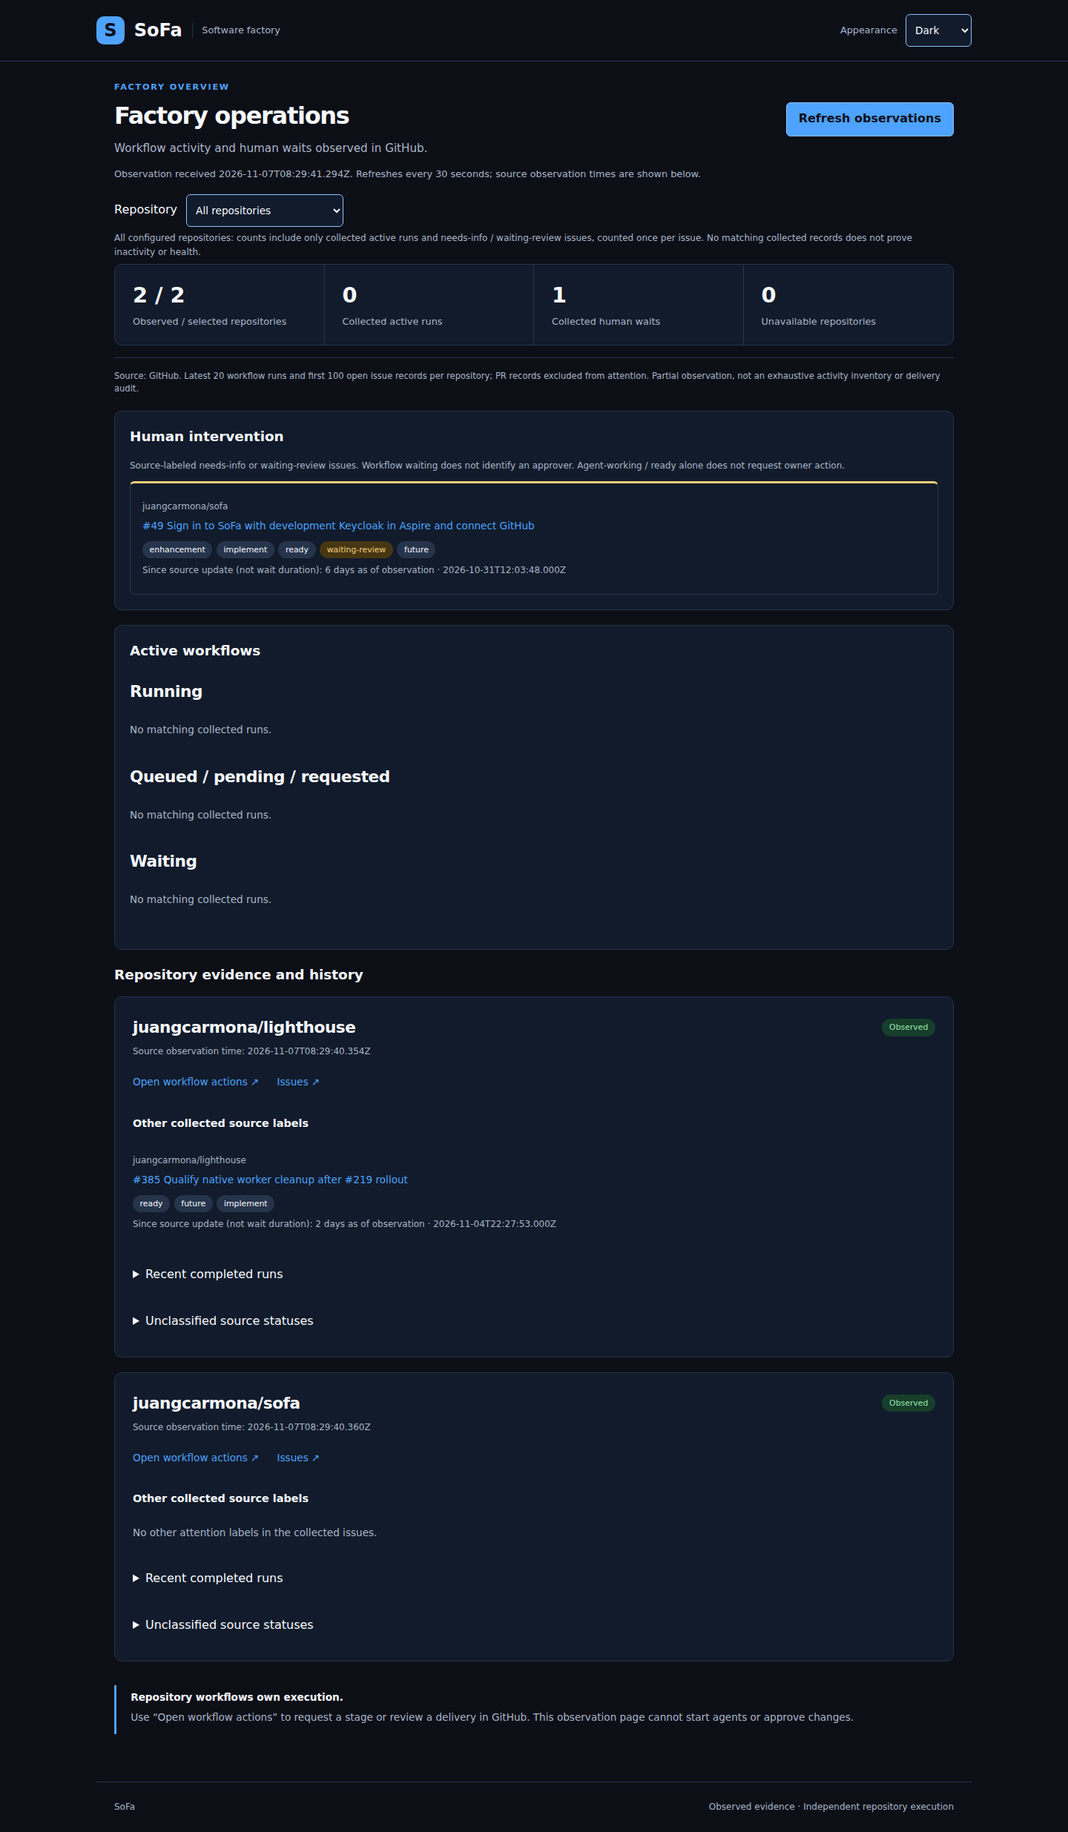
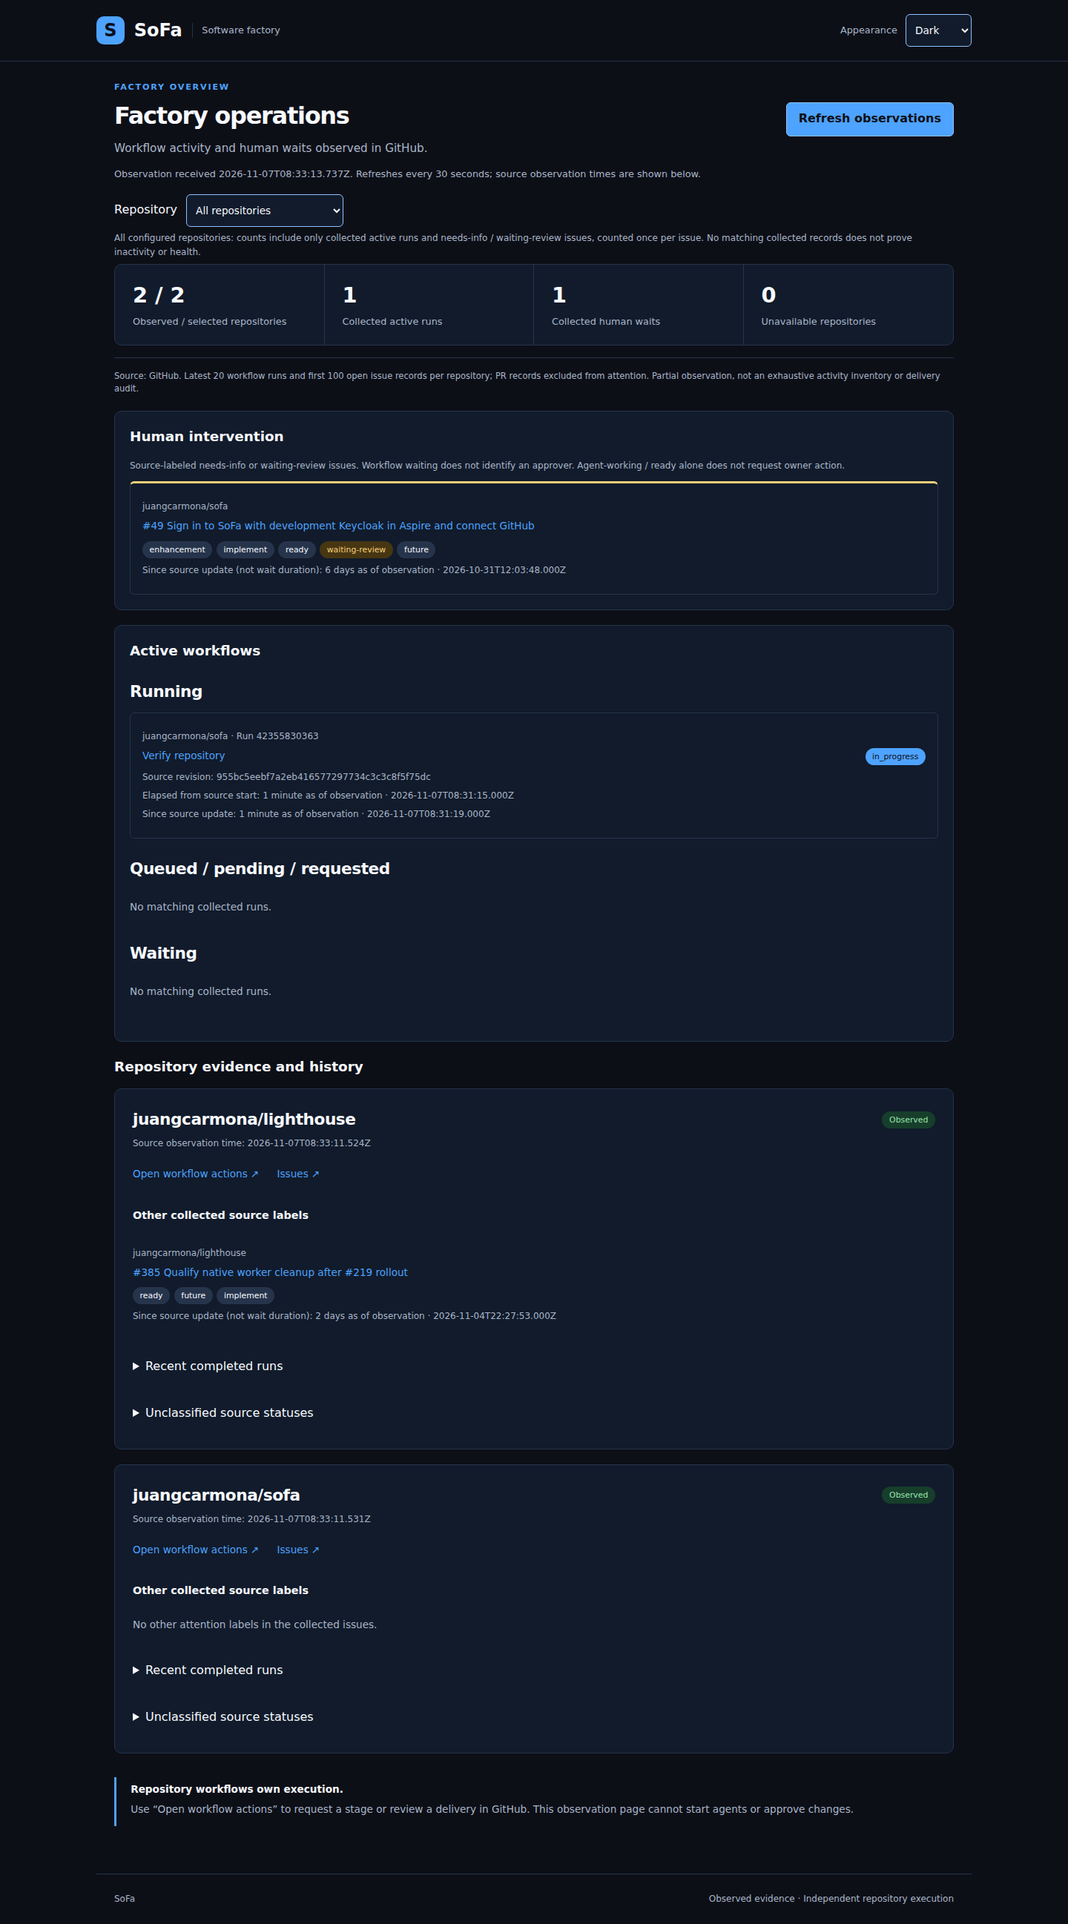
docs(90): integrate overview specification and retain delivery evidence

diff --git a/openspec/specs/factory-overview/spec.md b/openspec/specs/factory-overview/spec.md
@@ -1,0 +1,184 @@
+---
+pdac-scope: cited
+---
+
+# factory-overview Specification
+
+## Purpose
+
+Provide a bounded, read-only factory overview of collected workflow activity and source-labeled human waits, with stable identity and explicit evidence limits. This delivery specification consumes ProductShape intent and covers only issue #90's observer slice, not the complete authenticated workspace.
+<!-- pdac:cite id="JRN-DAILY-FACTORY-OPERATIONS" digest="sha256:a604012667b4b06339399a2f496380b24657fa3e71fc93d72d01187b2d4a272e" -->
+
+## Requirements
+
+### Requirement: Source-backed workflow overview
+
+The overview SHALL show every collected active run in the selected scope with source-backed card facts.
+<!-- pdac:cite id="FR-PROJECT-WORKSPACE" digest="sha256:9836a4ebc561438e2fb98dcd05fd97bd3e066720f368c620545975321e4f7462" -->
+<!-- pdac:cite id="BR-GITHUB-SOURCE" digest="sha256:fd8141424d5fead38ed55d54689511fc445467133706e875371cc3199af8ab1a" -->
+
+#### Scenario: Active states and completed history
+
+- **WHEN** collected runs include in_progress, queued, pending, requested, waiting and completed, with active records beyond the first eight
+- **THEN** every collected active run is visible with repository, stable source identity, title, exact source status, revision and safe source link or explicit unavailable values; running, queued/pending/requested and waiting are distinct groups
+- **THEN** completed runs remain inspectable separately and do not contribute to active counts
+
+#### Scenario: Unknown state is not invented activity
+
+- **WHEN** a source reports an unfamiliar status or omits a revision
+- **THEN** the status remains inspectable separately as unclassified, excluded from active counts, and the revision is unavailable, without inferring completion, runner failure, session activity or approval ownership
+
+### Requirement: Distinct source-labeled human waits
+
+The overview SHALL prominently show and count source-labeled human waits without inventing owner action.
+<!-- pdac:cite id="FR-INTERVENTION-INBOX" digest="sha256:b60e605685fc15157ca76a876d7ee88f154b664b4cec0ec5add860c2cdb161f8" -->
+<!-- pdac:cite id="BR-EXPLICIT-WORK-COMMANDS" digest="sha256:5d2f308b670bdf6e577d2205ebc246ec56505253d81d6a5a5efe0b92b55d735e" -->
+
+#### Scenario: Mixed source labels
+
+- **WHEN** issues have needs-info, waiting-review, both wait labels, or only ready/agent-working
+- **THEN** only the first three kinds appear as human waits, each repository/issue counts once, both wait reasons remain visible on one issue, and each wait shows repository, number, title, source reason/labels and safe source link or unavailable values
+- **THEN** ready/agent-working alone does not suggest owner action; a workflow waiting status alone neither adds a human-wait issue nor identifies an approver
+
+### Requirement: Observer issue compatibility
+
+Original collected issue facts SHALL remain available to existing observer clients.
+<!-- pdac:cite id="BR-GITHUB-SOURCE" digest="sha256:fd8141424d5fead38ed55d54689511fc445467133706e875371cc3199af8ab1a" -->
+
+#### Scenario: Human-wait projection preserves source facts
+
+- **WHEN** the overview distinguishes human waits from other collected attention items
+- **THEN** the existing observer response retains the original issue facts and source labels, including ready/agent-working; other attention items remain inspectable without invented urgency
+
+### Requirement: Source timing remains explainable
+
+The overview SHALL show valid source times and ages as of observation; unavailable times SHALL stay unavailable.
+<!-- pdac:cite id="BR-EXPLAINABLE-SIGNALS" digest="sha256:1b8ec288714357b03b030a921f70b7f1dd0e82a590d05430cc8b4bf638c933a9" -->
+<!-- pdac:cite id="FR-RUNTIME-HEALTH" digest="sha256:3566c2bc7919a04b15a3e0e89d2cc2947a9ba38962673d6eb67f7d4addb6dce2" -->
+
+#### Scenario: Available and unavailable timestamps
+
+- **WHEN** records mix valid start/update timestamps with omitted, null, invalid or future-relative values
+- **THEN** valid source timing has understandable ages and inspectable absolute timestamps with repository observation time; missing, invalid or inconsistent timing is unavailable, never epoch dates or zero ages
+
+#### Scenario: Elapsed time requires a source start
+
+- **WHEN** an in-progress run supplies a valid start time and observation time
+- **THEN** its elapsed time is measured between those timestamps and labeled as of observation; missing starts are not inferred from updates, queue time is not execution duration and completed history does not imply a completion duration
+
+### Requirement: Issue age is source-update age
+
+Human-wait issue age SHALL describe time since source update, not duration of the wait.
+<!-- pdac:cite id="FR-INTERVENTION-INBOX" digest="sha256:b60e605685fc15157ca76a876d7ee88f154b664b4cec0ec5add860c2cdb161f8" -->
+<!-- pdac:cite id="BR-EXPLAINABLE-SIGNALS" digest="sha256:1b8ec288714357b03b030a921f70b7f1dd0e82a590d05430cc8b4bf638c933a9" -->
+
+#### Scenario: Updated issue with a human-wait label
+
+- **WHEN** a collected needs-info or waiting-review issue has a valid updated timestamp
+- **THEN** its age is labeled since source update as of observation, without asserting when the human wait began; missing or invalid timestamps remain unavailable
+
+### Requirement: Scoped filtering
+
+The overview SHALL filter configured repositories and retain selection across refresh, with explicit count scope.
+<!-- pdac:cite id="FR-FACTORY-DISCOVERY" digest="sha256:18b4ae82857bb3098cb0b39f7cdfce4e0e9f308f23907f66d876b8c572b12bbf" -->
+
+#### Scenario: Filter survives successful and failed refresh
+
+- **WHEN** a configured repository is selected and observations refresh or the refresh fails
+- **THEN** selection persists, all sections/counts explain and retain that scope, and an unavailable repository remains selectable alongside All repositories and every configured repository
+
+### Requirement: Stable keyboard navigation
+
+Source identity SHALL survive redraw and state changes; focus SHALL remain reachable without unrelated focus theft.
+<!-- pdac:cite id="QR-MOBILE-OPERATIONS" digest="sha256:2485b5877f0872af3dbdaa0a7ac00ac7651b28173adf6e3cf8d9ed643029bb35" -->
+
+#### Scenario: Focus survives identity changes in presentation
+
+- **WHEN** a focused run or issue changes title, ordering, safe href or active/history group on refresh
+- **THEN** focus follows the same repository/source identity rather than another identically named card, with its source control still reachable
+
+#### Scenario: Focused card disappears
+
+- **WHEN** refresh removes the focused source control or makes its link unsafe
+- **THEN** focus moves to a safe persistent repository action or overview control, not a removed element or disabled button
+
+#### Scenario: Refresh preserves unrelated control focus
+
+- **WHEN** focus is on a persistent filter, refresh button or another control outside the results
+- **THEN** refreshing results does not steal that focus
+
+### Requirement: Evidence limits remain visible
+
+The overview SHALL expose bounded collection, selected coverage and distinct known counts versus unavailable evidence.
+<!-- pdac:cite id="BR-EXPLAINABLE-SIGNALS" digest="sha256:1b8ec288714357b03b030a921f70b7f1dd0e82a590d05430cc8b4bf638c933a9" -->
+<!-- pdac:cite id="FR-FACTORY-DISCOVERY" digest="sha256:18b4ae82857bb3098cb0b39f7cdfce4e0e9f308f23907f66d876b8c572b12bbf" -->
+
+#### Scenario: Partial and unavailable repositories
+
+- **WHEN** one configured repository is available with bounded results and another read fails
+- **THEN** the view states repository observation times, latest-20-workflow-run and first-100-open-issue-record bounds, selected coverage, collected active-run counts, human-wait-issue counts and unavailable repositories
+- **THEN** available results contribute only known collected counts; the failed read remains unknown and counts explain the unknown remainder, never exhaustive factory activity
+
+### Requirement: Missing evidence is not inactivity
+
+Missing source evidence SHALL NOT imply zero activity or health.
+<!-- pdac:cite id="FR-RUNTIME-HEALTH" digest="sha256:3566c2bc7919a04b15a3e0e89d2cc2947a9ba38962673d6eb67f7d4addb6dce2" -->
+<!-- pdac:cite id="BR-EXPLAINABLE-SIGNALS" digest="sha256:1b8ec288714357b03b030a921f70b7f1dd0e82a590d05430cc8b4bf638c933a9" -->
+
+#### Scenario: All unavailable versus collected empty
+
+- **WHEN** all selected repositories are unavailable, or a successful bounded collection contains no matching records
+- **THEN** unavailable totals remain unknown while successful empty results say no matching collected records, neither claiming an idle or healthy factory
+
+### Requirement: Failed refresh retains stale evidence
+
+Failed refresh SHALL retain the previous valid view and observation times with a stale warning.
+<!-- pdac:cite id="BR-EXPLAINABLE-SIGNALS" digest="sha256:1b8ec288714357b03b030a921f70b7f1dd0e82a590d05430cc8b4bf638c933a9" -->
+
+#### Scenario: Failed refresh and initial failure
+
+- **WHEN** fetch or JSON refresh fails after a valid view, or before any valid observation
+- **THEN** the previous view, selection and observation times are retained and labeled stale in the first case, and no observation is available in the second; neither failure fabricates empty evidence or makes old timing newly observed
+
+### Requirement: Safe source inspection
+
+Source text SHALL remain inert; navigable source links SHALL be repository-bound HTTPS GitHub links.
+<!-- pdac:cite id="BR-GITHUB-SOURCE" digest="sha256:fd8141424d5fead38ed55d54689511fc445467133706e875371cc3199af8ab1a" -->
+<!-- pdac:cite id="BR-LAN-PRIVILEGE-BOUNDARY" digest="sha256:318c7d8d4d3b2e27109e24628f99dd1825494fa9858dc13410032d73650f1cc8" -->
+
+#### Scenario: Hostile text and unsafe links
+
+- **WHEN** records contain markup-like titles, unsafe schemes or links outside their repository
+- **THEN** text remains inert and unsafe links are not navigable while valid source links remain inspectable
+
+### Requirement: Accessible native overview
+
+The overview SHALL preserve keyboard access, visible focus, native Lighthouse themes and usable 390px layout.
+<!-- pdac:cite id="QR-MOBILE-OPERATIONS" digest="sha256:2485b5877f0872af3dbdaa0a7ac00ac7651b28173adf6e3cf8d9ed643029bb35" -->
+
+#### Scenario: Phone and keyboard inspection
+
+- **WHEN** the owner uses filter, refresh, history and source controls by keyboard at desktop and 390px sizes in light and dark themes
+- **THEN** controls remain accessible with visible focus and long names, labels and revisions do not cause horizontal overflow
+
+### Requirement: Observation remains independent
+
+Repository execution SHALL remain independent of SoFa; observation SHALL NOT become execution authority.
+<!-- pdac:cite id="CON-FACTORY-RUNTIME" digest="sha256:3e183bdd765a663d966e19e3c645ee91e36c8e30b14dacc9f4724c670fd21a2d" -->
+<!-- pdac:cite id="FR-RUNTIME-HEALTH" digest="sha256:3566c2bc7919a04b15a3e0e89d2cc2947a9ba38962673d6eb67f7d4addb6dce2" -->
+
+#### Scenario: Observation does not own execution
+
+- **WHEN** the owner inspects workflow or issue evidence
+- **THEN** repository workflows and their independent runtime retain execution authority, without embedded agents, new scheduling or dependence on SoFa availability
+
+### Requirement: Observation remains read-only
+
+Observation SHALL preserve the configured allowlist, bounded shared cache and read-only server boundary.
+<!-- pdac:cite id="BR-LAN-PRIVILEGE-BOUNDARY" digest="sha256:318c7d8d4d3b2e27109e24628f99dd1825494fa9858dc13410032d73650f1cc8" -->
+
+#### Scenario: Refresh cannot dispatch work
+
+- **WHEN** a client refreshes or filters observations, requests an unconfigured repository or attempts a mutating HTTP method
+- **THEN** refresh/filter remain read-only over configured cached evidence, unconfigured access is not added and mutating methods are rejected
+- **THEN** source inspection and navigation introduce no mutation API, credential or authentication change and request no work

diff --git a/openspec/changes/archive/2026-11-07-issue-90-proposal/tasks.md b/openspec/changes/archive/2026-11-07-issue-90-proposal/tasks.md
@@ -33,18 +33,20 @@ pdac-scope: cited
 - [x] 2.6 Reconcile the delivered behavior with proposal/design/spec and refresh affected citations using provider inspect/cite where dependencies changed; verify each current Markdown artifact has exactly one cited scope declaration and current payloads through the unchanged product:citations step. Stop for product drift rather than changing the accepted model (AC7).
 <!-- pdac:cite id="BR-GITHUB-SOURCE" digest="sha256:fd8141424d5fead38ed55d54689511fc445467133706e875371cc3199af8ab1a" -->
 
-## 3. Integration evidence
+## 3. Implementation verification
 
-- [ ] 3.1 Run `npm ci --ignore-scripts`, `env CI=true npm run verify:container` and `npx --yes --package=@fission-ai/openspec@1.15.0 openspec validate issue-90-proposal --strict --no-interactive` without narrowing the inventory. Retain source-bound exit results and artifacts; verify frozen tests/web.test.mjs still proves allowlist/cache/method/host/cross-site/CSP/error boundaries and only admitted files plus this planning root changed (AC6, AC7).
+- [x] 3.1 Run `npm ci --ignore-scripts`, `env CI=true npm run verify:container` and `npx --yes --package=@fission-ai/openspec@1.15.0 openspec validate issue-90-proposal --strict --no-interactive` without narrowing the inventory. Retain source-bound exit results and artifacts; verify frozen tests/web.test.mjs still proves allowlist/cache/method/host/cross-site/CSP/error boundaries and application/test edits remain in the admitted paths. Trusted operator integration separately owns evidence publication and provider fold/archive; the native policy remains unchanged (AC6, AC7).
 <!-- pdac:cite id="CON-FACTORY-RUNTIME" digest="sha256:3e183bdd765a663d966e19e3c645ee91e36c8e30b14dacc9f4724c670fd21a2d" -->
-- [ ] 3.2 Perform supplementary agent inspection of desktop/mobile light/dark artifacts and the live read-only view; record tested interactions, source observation times, collection limits and any unavailable evidence separately from fixture screenshots and trusted receipts. Verify AC1–AC8 mapping and record all remaining limitations without inferring live health from fixtures.
+- [x] 3.2 Perform supplementary agent inspection of desktop/mobile light/dark artifacts and the live read-only view; record tested interactions, source observation times, collection limits and any unavailable evidence separately from fixture screenshots and trusted receipts. Verify AC1–AC8 mapping and record all remaining limitations without inferring live health from fixtures.
 <!-- pdac:cite id="BR-EXPLAINABLE-SIGNALS" digest="sha256:1b8ec288714357b03b030a921f70b7f1dd0e82a590d05430cc8b4bf638c933a9" -->
-- [ ] 3.3 Obtain distinct independent candidate review after accepted planning review and the full required hosted `verify` on the actual integration candidate, including host .NET/Docker EngineTests and retained browser artifacts. Verify effective forge requirements, source/head bindings and all lifecycle DoD dimensions before integration; report any required failed/unavailable check or protected decision as a concrete blocker (AC7).
 
 ## Workflow follow-up
 
+- Original task 3.3 is a mandatory host integration gate, recorded here rather than as an implementation checkbox: Obtain distinct independent candidate review after accepted planning review and the full required hosted `verify` on the actual integration candidate, including host .NET/Docker EngineTests and retained browser artifacts. Verify effective forge requirements, source/head bindings and all lifecycle DoD dimensions before integration; report any required failed/unavailable check or protected decision as a concrete blocker (AC7). Initial candidate review accepted `955bc5eebf7a2eb416577297734c3c3c8f5f75dc` with no findings and all eleven DoD dimensions assessed; hosted verification of that head passed. The final post-fold/archive head still requires fresh hosted verification and independent final-head audit before merge. These gates are not waived or claimed complete in this archive.
+- The fresh operator snapshot at that head passed all three declared commands; full host and hosted checks passed 34 Node, 38 .NET and 12 browser tests. Operator receipts and the candidate review are retained under `docs/delivery/evidence/issue-90/`.
+
 - Native run [42351913300](https://github.com/juangcarmona/sofa/actions/runs/42351913300) accepted the corrected proposal with independent planning review. Its implementation author declared a blocked result after an executable-cache restriction and absence of GitHub tooling in the editing container. The separate trusted verification subsequently ran all three declared commands successfully, with source integrity and service cleanup confirmed. The controller retained the blocked author result and published no implementation PR; native end-to-end qualification remains open in #88.
 - The owner explicitly authorized completing and merging the necessary PRs. This branch continues in the trusted operator lane, preserves the native result, and adds compact cards and a closed-history focus regression test. It changes no execution authority, verification policy, accepted product model or architecture.
-- Twelve browser tests now pass in both themes, including source bounds, human waits, timing, unavailable/stale evidence, safe links, mobile layout and focus restoration. Real GitHub inspection at 2026-11-07T08:29:45Z successfully observed both configured repositories and checked desktop/mobile in both themes, zero Axe violations, no overflow, filter preservation on refresh and POST rejection. See `docs/delivery/evidence/issue-90/runtime.json`.
-- Fresh source-bound container checks, the complete host suite including Docker EngineTests, independent candidate review and the effective forge checks remain required before integration. No failed check or human product decision is waived. Broad #51/#52/#57 and the existing holds remain open; this delivery does not establish authenticated operations, session monitoring, production readiness, release or deployment.
+- Twelve browser tests now pass in both themes, including source bounds, human waits, timing, unavailable/stale evidence, safe links, mobile layout and focus restoration. Real GitHub inspection at 2026-11-07T08:33:17Z successfully observed both configured repositories and checked desktop/mobile in both themes, zero Axe violations, no overflow, filter preservation on refresh and POST rejection. See `docs/delivery/evidence/issue-90/runtime.json`.
+- The original candidate has passed source-bound container checks, the complete host suite including Docker EngineTests, hosted verify and independent review. Final integration repeats the effective forge checks and exact-head review after the provider fold/archive. No failed check or human product decision is waived. Broad #51/#52/#57 and the existing holds remain open; this delivery does not establish authenticated operations, session monitoring, production readiness, release or deployment.
 - Fold and archive this delivery plan through OpenSpec after implementation review; audit the final integration head again and retain review/CI links on the PR and issue.

diff --git a/docs/delivery/evidence/issue-90/review-request.md b/docs/delivery/evidence/issue-90/review-request.md
@@ -1,0 +1,5 @@
+# Issue #90 independent review request
+
+Reviewed implementation head: `955bc5eebf7a2eb416577297734c3c3c8f5f75dc`. Requested reviewer: `openai/gpt-6-luna`, effort `high`. Read-only source snapshot, separate isolated execution, source/diff, issue acceptance criteria, full verification and runtime evidence supplied. No human approval or provider billing identity is asserted.
+
+Independently review the issue90 operational-view implementation at the exact head in /input/context.json and read-only /workspace. Read the issue ACs, diff, complete implementation/tests, delivery proposal/design/spec/tasks, docs/engineering-lifecycle.md, accepted ProductShape/architecture and attached evidence. This is owner-authorized trusted-operator continuation, not native qualification; preserve the original blocked native result. Review observable correctness, safe DOM/link handling, stale/unavailable/source timing behavior, no false human-wait inference, accessibility/390px/keyboard/focus, test adequacy, read-only server preservation, scope and authority. All native frozen files remain unchanged by feature, except provider fold/archive is integration-owned; no policy expansion. Native Sol Medium wrote the original implementation; you are the distinct configured Luna High reviewer. Exact-current-head hosted checks must pass (context includes their observed status), and full local host + fresh official container checks and actual unmocked GitHub runtime are supplied. The no-env local host first run hit a CLR runtime fatal error; the bounded-process full rerun is the supplied successful proof, without removing any test. Audit all 11 DoD dimensions explicitly with concise evidence/limitations in dimensions. If reviewKind=candidate, task3.3 and integration/archive remain host-owned future gates; assess implementation without falsely claiming final integration. If final-integration-and-done-gate, all applicable DoD dimensions must be satisfied at this exact head, specs folded and plan archived by official OpenSpec, evidence accurate; any unmet gate blocks. This slice closes90 only; broad51/52/57 and native88 remain open. Report only concrete actionable defects. Write /output/envelope.json as {head,verdict,findings,dimensions}; verdict accept, request-changes or escalate. Each dimension includes id, status and concise evidence, all11 required. Accept requires empty findings. Read-only review: do not edit source, execute repository code, invoke agents or disclose hidden reasoning. Do not invent human approval or model billing identity.
